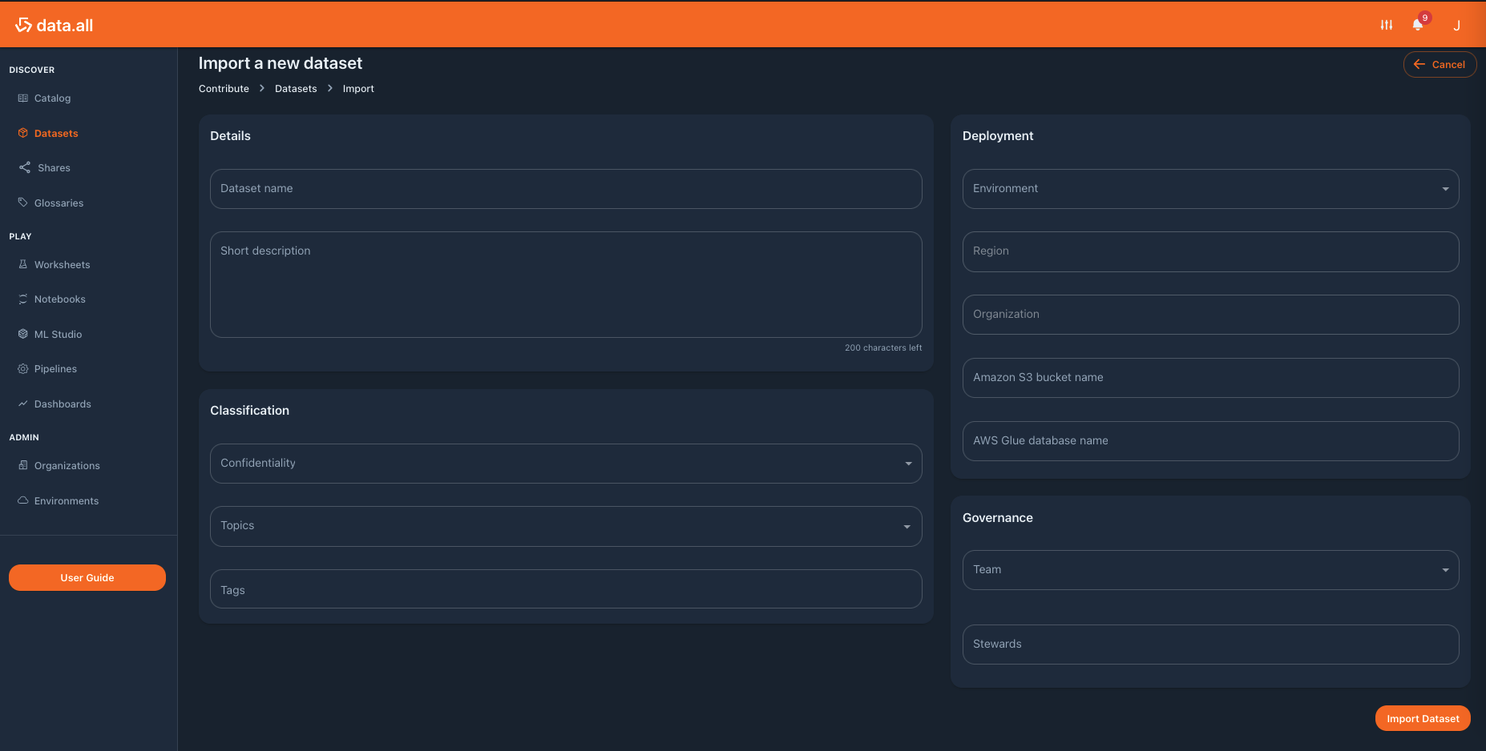
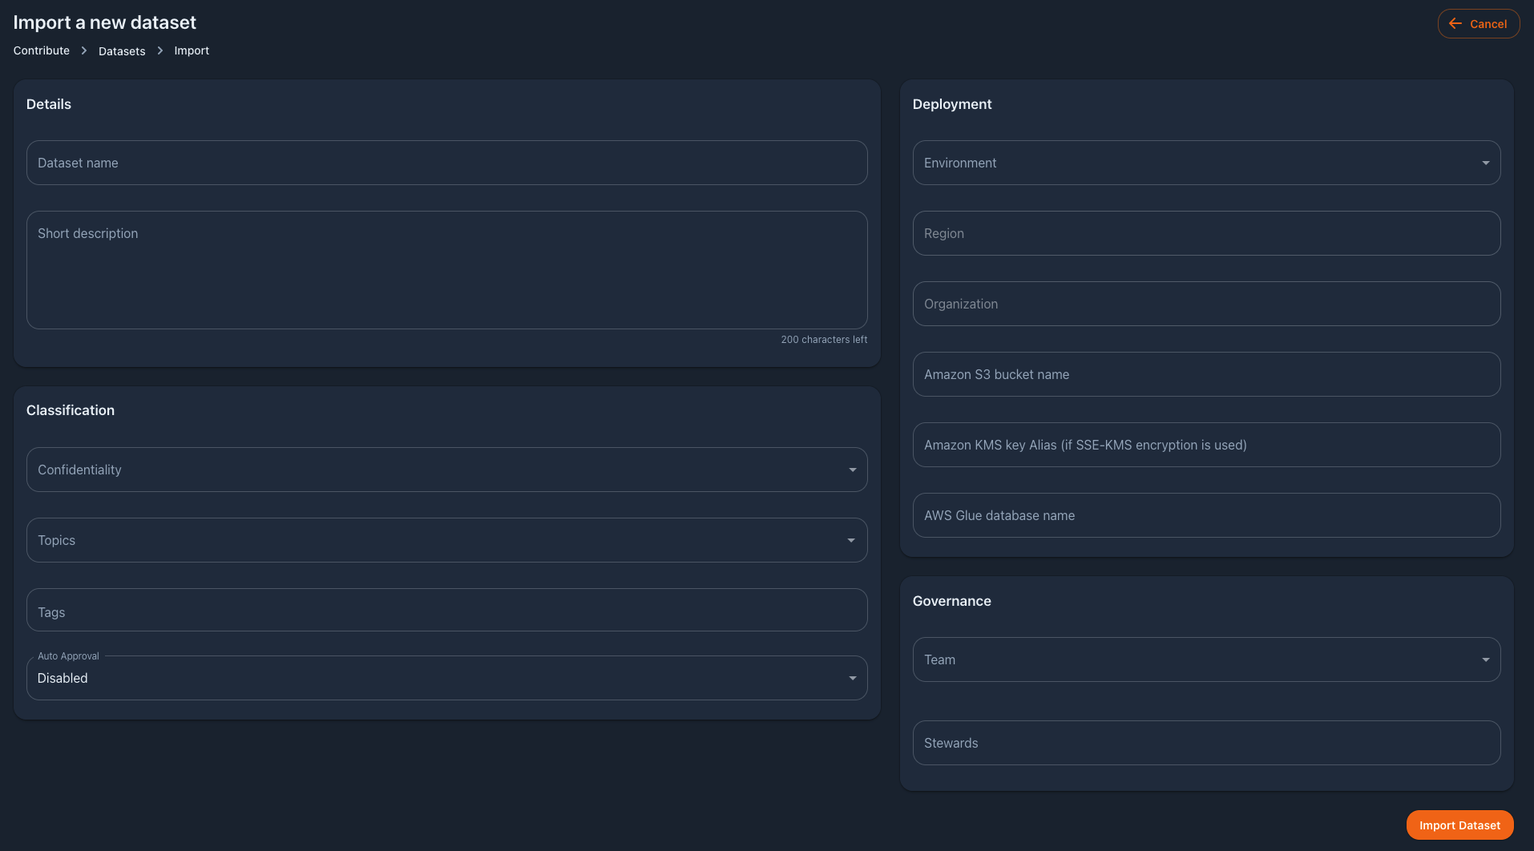
Update Userguide documentation for v2.3 updates

diff --git a/documentation/userguide/docs/environments.md b/documentation/userguide/docs/environments.md
@@ -7,7 +7,7 @@ users store data and work with data.**
 
 !!! danger "One AWS account, One environment"
     To ensure correct data access and AWS resources isolation, onboard one environment in each AWS account.
-    Despite being possible, **we strongly discourage users to use the same AWS account for multiple environments**.
+    **We strongly discourage users to use the same AWS account for multiple environments**.
 
 ## :material-hammer-screwdriver: **AWS account Pre-requisites**
 *data.all* does not create AWS accounts. You need to provide an AWS account and complete the following bootstraping
@@ -49,8 +49,7 @@ cdk bootstrap --trust DATA.ALL_AWS_ACCOUNT_NUMBER  -c @aws-cdk/core:newStyleStac
 In the above command we define the `--cloudformation-execution-policies` to use the AdministratorAccess policy `arn:aws:iam::aws:policy/AdministratorAccess`. 
 This is the default policy that CDK uses to deploy resources, nevertheless it is possible to restrict it to any IAM policy created in the account.
 
-In V1.6.0 a more restricted policy is provided and directly downloadable from the UI. This more restrictive policy can be optionally used as
-`--cloudformation-execution-policies` for the CDK Execution role.
+In V1.6.0 and later, a more restricted policy is provided and directly downloadable from the UI. This more restrictive policy can be optionally passed in to the parameter `--cloudformation-execution-policies` instead of `arn:aws:iam::aws:policy/AdministratorAccess` for the CDK Execution role.
 
 
 ### 2. (For manual) Pivot role
@@ -72,27 +71,13 @@ available in data.all UI to create the role named **dataallPivotRole**.
     If you have existing environments that were linked to data.all using a manually created Pivot Role you can
     still benefit from V1.5.0 `enable_pivot_role_auto_create` feature. You just need to update that parameter in
     the `cdk.json` configuration of your deployment. Once the CICD pipeline has completed: new linked environments 
-    will contain the nested cdk-pivotRole stack (no actions needed) and existing environments can be updated by: a) manually, 
-    by clicking on "update stack" in the environment>stack tab  b) automatically, wait for the `stack-updater` ECS task that 
-    runs daily overnight c) automatically, set the added `enable_update_dataall_stacks_in_cicd_pipeline` parameter to `true` in 
-    the `cdk.json` config file. The `stack-updater` ECS task will be triggered from the CICD pipeline
+    will contain the nested cdk-pivotRole stack (no actions needed) and existing environments can be updated by:
+      <br>a) manually, by clicking on "update stack" in the environment --> stack tab
+      <br>b) automatically, wait for the `stack-updater` ECS task that runs daily overnight 
+      <br>c) automatically, set the added `enable_update_dataall_stacks_in_cicd_pipeline` parameter to `true` in the `cdk.json` config file. The `stack-updater` ECS task will be triggered from the CICD pipeline
 
-### 3. (For new accounts) AWS Lake Formation Service role
-<span style="color:grey">*data.all*</span> relies on AWS Lake Formation to manage access to your structured data.
-If AWS Lake Formation has never been
-activated on your AWS account, you need to create
-a service-linked role, using the following command:
 
-```bash
-aws iam create-service-linked-role --aws-service-name lakeformation.amazonaws.com
-```
-
-!!! danger "Service link creation error"
-    If you receive: An error occurred (InvalidInput) when calling the CreateServiceLinkedRole operation: Service
-    role name AWSServiceRoleForLakeFormationDataAccess has been taken in this account, please try a different suffix.
-    <b>You can skip this step, as this indicates the Lake formation service-linked role exists.</b>
-
-### 4. (For Dashboards) Subscribe to Amazon Quicksight
+### 3. (For Dashboards) Subscribe to Amazon Quicksight
 
 This is an optional step. To link environments with <i><b>Dashboards enabled</b></i> , you will also need a running Amazon QuickSight subscription
 on the bootstraped account. If you have not subscribed to Quicksight before, go to your AWS account and choose the
@@ -103,26 +88,29 @@ Enterprise option as show below:
 ![quicksight](pictures/environments/boot_qs_2.png#zoom#shadow)
 
 
-### 5. (For ML Studio) Delete or adapt the default VPC
-If ML Studio is enabled, data.all checks if there is an existing SageMaker Studio domain. If there is an existing domain
-it will use it to create ML Studio profiles. If no pre-existing domain is found, data.all will create a new one.
+### 4. (For ML Studio) Specifying a VPC or using default
+If ML Studio is enabled, data.all will create a new SageMaker Studio domain in your AWS Account and use the domain later on to create ML Studio profiles.
 
 Prior to V1.5.0 data.all always used the default VPC to create a new SageMaker domain. The default VPC had then to be
 customized to fulfill the networking requirements specified in the Sagemaker
 [documentation](https://docs.aws.amazon.com/sagemaker/latest/dg/studio-notebooks-and-internet-access.html) for VPCOnly 
 domains.
 
-In V1.5.0 we introduce the creation of a suitable VPC for SageMaker as part of the environment stack. However, it is not possible to edit the VPC used by a SageMaker domain, it requires deletion and re-creation. To allow backwards
+In V1.5.0 we introduce the creation of a suitable VPC for SageMaker as part of the environment stack. However, it is not possible to edit the VPC used by a SageMaker Studio domain, it requires deletion and re-creation. To allow backwards
 compatibility and not delete the pre-existing domains, in V1.5.0 the default behavior is still to use the default VPC.
 
-Data.all will create a SageMaker VPC:
-- For new environments: (link environment)
-  - if there is not a pre-existing SageMaker Studio domain
-  - if there is not a default VPC in the account
-- For pre-existing environments: (update environment)
-  - if all ML Studio profiles have been deleted (from CloudFormation as well)
-  - if there is not a pre-existing SageMaker Studio domain
-  - if the default VPC has been deleted in the account
+In V2.2.0, we introduced the ability to select your own VPC ID and Subnet IDs to deploy the VPC-Only Sagemaker Studio domain to.
+
+Data.all will follow the following rules to establish which VPC to use for Sagemaker Studio domain creation:
+
+- If MLStudio enabled with VPC and subnet IDs specified
+  - Use the specified VPC and subnet IDs
+- If MLStudio enabled with no VPC/subnet IDs specified 
+  - default VPC exists -->  Uses default VPC and all subnets available
+  - default VPC does not exist --> Creates a new VPC and uses with private subnets
+
+Pre-existing environments from older versions of data.all will have their Sagemaker Studio domain remain unchanged if already enabled. Users can get a better understanding of what VPC configuration is being used by navigating to the environment --> MLStudio Tab in the data.all UI once the environment stack is created.
+
 
 ## :material-new-box: **Link an environment**
 ### Necessary permissions
@@ -162,20 +150,19 @@ Navigate to your organization, click on the **Link Environment** button, and fil
 | Short description | Short description about the environment                                                                                                   | No       | Yes      |Finance department teams
 | Account number    | AWS bootstraped account maped to the environment                                                                                          | Yes      | No       |111111111111
 | Region            | AWS region                                                                                                                                | Yes      | No       |Europe (Ireland)
-| IAM Role name     | Alternative name of the environment IAM role                                                                                              | No       | No       |anotherRoleName
+| IAM Role ARN     | Alternative name of the environment IAM role                                                                                              | No       | No       |anotherRoleName
 | Resources prefix  | Prefix for all AWS resources created in this environment. Only (^[a-z-]*$)                                                                | Yes      | Yes      |fin
 | Team              | Name of the group initially assigned to this environment                                                                                  | Yes      | No       |FinancesAdmin
 | Tags              | Tags that can later be used in the Catalog                                                                                                | Yes      | Yes      |finance, test
-| VPC Identifier    | VPC provided to host the environment resources instead than the default one created by <span style="color:grey">*data.all*</span>         | No       |   No       | vpc-......
-| Public subnets    | Public subnets provided to host the environment resources instead than the default created by <span style="color:grey">*data.all*</span>  | No       |  No        | subnet-....
-| Private subnets   | Private subnets provided to host the environment resources instead than the default created by <span style="color:grey">*data.all*</span> | No       |   No       | subnet-.....
+| ML Studio VPC ID    | VPC to host the environment sagemaker studio domain (if mlstudio is enabled) instead than the default VPC or the VPC created by <span style="color:grey">*data.all*</span>         | No       |   No       | vpc-......
+| ML Studio Subnet ID(s)   | Subnet(s) to host the environment sagemaker studio domain (if mlstudio is enabled) instead than the default subnets or the subnets created by <span style="color:grey">*data.all*</span>  | No       |  No        | subnet-....
 
 
 **Features Management**
 
 An environment is defined as a workspace and in this workspace we can flexibly activate or deactivate different
 features, adapting the workspace to the teams' needs. If you want to use Dashboards, you need to complete the optional
-fourth step explained in the previous chapter "Bootstrap your AWS account".
+third step explained in the previous chapter "Bootstrap your AWS account".
 
 !!! success "This is not set in stone!"
     Don't worry if you change your mind, features are editable. You can always update
@@ -192,6 +179,7 @@ the environment organization. There are several tabs just below the environment 
 - Overview: summary of environment information and AWS console and credential access.
 - Teams: list of all teams onboarded to this environment.
 - Datasets: list of all datasets owned and shared with for this environment
+- MLStudio: summary of Sagemaker Studio domain configuration (if enabled)
 - Networks: VPCs created and owned by the environment
 - Subscriptions: SNS topic subscriptions enabled or disabled in the environment
 - Tags: editable key-value tags
@@ -238,11 +226,11 @@ Note that we can keep the environment CloudFormation stack. What is this for? Th
 using the environment resources (IAM roles, etc) created by <span style="color:grey">*data.all*</span> but outside of <span style="color:grey">*data.all*</span>
 
 ### :material-plus-network-outline: **Create networks**
-Networks are VPCs created from <span style="color:grey">*data.all*</span> and belonging to an environment and team. To create a network, click in the
+Networks are pre-existing VPCs that are onboarded to <span style="color:grey">*data.all*</span> and belonging to an environment and team. To create a network, click in the
 **Networks** tab in the environment window, then click on **Add** and finally fill the following form.
 
-!!!abstract "I need an example!"
-    What is the advantage of using networks from <span style="color:grey">*data.all*</span>? ....[MISSING INFO]
+!!!abstract "Using Networks"
+    After onboarding your network(s) in <span style="color:grey">*data.all*</span>, users can easily select the VPC and Subnet information of that network to seamlessly deploy new resources in data.all that require VPC configurations, such as data.all Notebooks. For example, if a User wants to create a notebook in their environment after onboarding a network, the VPC and Subnet ID fields in the create notebook form on data.all will auto-populate with the VPC and subnet information for the user to easily to select (rather than navigating to and from the AWS Console)!
 
 
 ![](pictures/environments/env_networks.png#zoom#shadow)
@@ -303,7 +291,8 @@ creator of the environment or invited to the environment). In the following pict
 For the environment admin team and for each team invited to the environment <span style="color:grey">*data.all*</span> 
 creates an IAM role. From the **Teams** tab of
 the environment we can assume our team's IAM role to get access to the AWS Console or copy the credentials to the
-clipboard. Both options are under the "Actions" column in the Teams table.
+clipboard. Both options are under the "Actions" column in the Teams table (these options are only available if `core.features.env_aws_actions` is set to `True` in the `config.json` used for deployment of data.all).
+
 
 
 ![](pictures/environments/env_teams_3.png#zoom#shadow)
@@ -376,10 +365,13 @@ Any IAM role that exists in the Environment AWS Account can be added to <span st
 
 ![](pictures/environments/env_consumption_roles_1.png#zoom#shadow)
 
-A window like the following will appear for you to introduce the arn of the IAM role and the Team that owns the consumption role.
-Only members of this team and tenants of <span style="color:grey">*data.all*</span> can remove the consumption role.
+A window like the following will appear for you to introduce a name for the consumption role in data.all, the arn of the IAM role, the Team that owns the consumption role and whether data.all should manage the consumption role. Enabling "data.all managed" on the consumption role allows data.all to attach IAM policies to the role used for data.all related activities, such as sharing data, rather than having a user manually add those policies to the role.
+
+Only members of this team and tenants of <span style="color:grey">*data.all*</span> can edit or remove the consumption role.
 
 ![](pictures/environments/env_consumption_roles_2.png#zoom#shadow)
+
+![](pictures/environments/env_consumption_roles_3.png#zoom#shadow)
 
 !!! success "Existing roles only"
     <span style="color:grey">*data.all*</span> checks whether that IAM role exists in the AWS account of the environment before adding it as a consumption role.
@@ -387,5 +379,5 @@ Only members of this team and tenants of <span style="color:grey">*data.all*</sp
 **Data Access**
 
 - By default, a new consumption role does NOT have access to any data in <span style="color:grey">*data.all*</span>.
-- The team that owns the consumption role needs to open a share request for the consumption role as shown in the picture below.
+- The team that owns the consumption role needs to open a share request for the consumption role as discussed more in the Discover --> Shares section.
 

diff --git a/documentation/userguide/docs/datasets.md b/documentation/userguide/docs/datasets.md
@@ -91,7 +91,7 @@ On left pane choose **Datasets**, then click on the **Create** button. Fill the 
 | Confidentiality  | Level of confidentiality: Unclassified, Oficial or Secret | Yes             | Yes      | Secret
 | Topics           | Topics that can later be used in the Catalog              | Yes, at least 1 | Yes       | Finance
 | Tags             | Tags that can later be used in the Catalog                | Yes, at least 1 | Yes      | deleteme, ds
-
+| Auto Approval             | Whether shares for this dataset need approval from dataset owners/stewards              | Yes (default `Disabled`) | Yes      | Disabled, Enabled
 
 ## :material-import: **Import a dataset**
 
@@ -99,7 +99,7 @@ On left pane choose **Datasets**, then click on the **Create** button. Fill the 
 If you already have data stored on Amazon S3 buckets in your data.all environment, data.all got you covered with the import feature. In addition to
 the fields of a newly created dataset you have to specify the S3 bucket and optionally a Glue database and a KMS key Alias. If the Glue database
 is left empty, data.all will create a Glue database pointing at the S3 Bucket. As for the KMS key Alias, data.all assumes that if nothing is specified
-the S3 Bucket is encrypted with SSE-S3 encryption.
+the S3 Bucket is encrypted with SSE-S3 encryption. Data.all performs a validation check to ensure the KMS Key Alias provided (if any) is the one that encrypts the S3 Bucket specified.
 
 !!! danger "Imported KMS key and S3 Bucket policies requirements"
     Data.all pivot role will handle data sharing on the imported Bucket and KMS key (if imported). Make sure that
@@ -107,8 +107,7 @@ the S3 Bucket is encrypted with SSE-S3 encryption.
 
 
 ### KMS key policy
-In the KMS key policy we need to grant explicit permission to the pivot role. Note that this block is needed even if
-permissions for the principal `"AWS": "arn:aws:iam::111122223333:root"` are given.
+In the KMS key policy we need to grant explicit permission to the pivot role. At a minimum the following permissions are needed for the pivotRole:
 
 ```
 {
@@ -126,22 +125,12 @@ permissions for the principal `"AWS": "arn:aws:iam::111122223333:root"` are give
     "kms:ReEncrypt*",
     "kms:TagResource",
     "kms:UntagResource"
+    'kms:DescribeKey'
    ],
   "Resource": "*"
 }
 
 ```
-
-
-
-
-
-
-| Field                  | Description                                                                                     | Required | Editable |Example
-|------------------------|-------------------------------------------------------------------------------------------------|----------|----------|-------------
-| Amazon S3 bucket name  | Name of the S3 bucket you want to import                                                        | Yes      | No    |DOC-EXAMPLE-BUCKET
-| Amazon KMS key Alias   | Alias of the KMS key used to encrypt the S3 Bucket (do not include alias/<ALIAS>, just <ALIAS>) | Yes      | No    |somealias
-| AWS Glue database name | Name of the Glue database tht you want to import                                                | No       | No      |anyDatabase
 
 !!!success "Update imported Datasets"
     Imported keys is an addition of V1.6.0 release. Any previously imported bucket will have a KMS Key Alias set to `Undefined`.
@@ -149,6 +138,13 @@ permissions for the principal `"AWS": "arn:aws:iam::111122223333:root"` are give
     **Edit** window.
 
 ![import_dataset](pictures/datasets/import_dataset.png#zoom#shadow)
+
+| Field                  | Description                                                                                     | Required | Editable |Example
+|------------------------|-------------------------------------------------------------------------------------------------|----------|----------|-------------
+| Amazon S3 bucket name  | Name of the S3 bucket you want to import                                                        | Yes      | No    |DOC-EXAMPLE-BUCKET
+| Amazon KMS key Alias   | Alias of the KMS key used to encrypt the S3 Bucket (do not include alias/<ALIAS>, just <ALIAS>) | No       | No    |somealias
+| AWS Glue database name | Name of the Glue database tht you want to import                                                | No       | No      |anyDatabase
+
 
 ## :material-card-search-outline: **Navigate dataset tabs**
 
@@ -182,7 +178,7 @@ Moreover, AWS information related to the resources created by the dataset CloudF
 AWS Account, Dataset S3 bucket, Glue database, IAM role and KMS Alias.
 
 You can also assume this IAM role to access the S3 bucket in the AWS console by clicking on the **S3 bucket** button.
-Alternatively, click on **AWS Credentials** to obtain programmatic access to the S3 bucket.
+Alternatively, click on **AWS Credentials** to obtain programmatic access to the S3 bucket (only available if `modules.dataset.features.aws_actions` is set to `True` in the `config.json` used for deployment of data.all).
 
 ![overview](pictures/datasets/dataset_overview.png#zoom#shadow)
 
@@ -241,11 +237,6 @@ Catalog and then click on Synchronize as we did in step 3.
 - Also, you can deploy Glue resources using <a href="https://docs.aws.amazon.com/glue/latest/dg/populate-with-cloudformation-templates.html">CloudFormation</a>
 - Or directly, <a href="https://github.com/aws-samples/aws-glue-samples/tree/master/utilities/Hive_metastore_migration">migrating from Hive Metastore.</a>
 - there are more for sure :)
-
-!!! abstract "Use data.all pipelines to register Glue tables"
-    data.all pipelines can be used to transform your data including the creation of Glue tables using
-    <a href="https://docs.aws.amazon.com/glue/latest/dg/aws-glue-api-crawler-pyspark-extensions-dynamic-frame.html#aws-glue-api-crawler-pyspark-extensions-dynamic-frame-write"> AWS Glue pyspark extension </a>.
-    Visit the <a href="pipelines.html">pipelines section</a> for more details.
 
 
 ### Folders

diff --git a/documentation/userguide/docs/shares.md b/documentation/userguide/docs/shares.md
@@ -11,10 +11,12 @@ to create access permissions to tables, meaning that no data is copied between  
 Under-the-hood, folders are prefixes inside the dataset S3 bucket. To create sharing of folders in data.all,
 we create an S3 access point per requester group to handle its access to specific prefixes in the dataset.
 
+data.all also supports the sharing of the entire S3 Bucket to requestors using IAM permissions and S3/KMS policies if desired.
+
 **Concepts**
 
 - Share request or Share Object: one for each dataset and requester team.
-- Share Item refers to the individual tables and folders that are added to the Share request.
+- Share Item refers to the individual tables and folders or S3 Bucket that are added to the Share request.
 
 **Sharing workflow**
 
@@ -54,7 +56,9 @@ The following window will open. Choose your target environment and team and opti
 
 ![share_request_form](pictures/shares/shares_2_1.png#zoom#shadow)
 
-If instead of to a team, you want to request access for a Consumption role, add it to the request as in the picture below.
+If instead of to a team, you want to request access for a Consumption role, add it to the request as in the picture below. 
+
+<b><i>NOTE: </i></b> If the consumption role selected is not data.all managed - you will have the option to allow data.all to attach the share policies to the consumption role for this particular share object (if not enabled here you will have to manually attach the share policies to be given access to data).
 
 ![share_request_form](pictures/shares/shares_2_2.png#zoom#shadow)
 
@@ -122,6 +126,28 @@ regards to the dataset is `SHARED`.
 
 ![accept_share](pictures/shares/shares_dataset.png#zoom#shadow)
 
+## **Verify (and Re-apply) Items**
+
+As of V2.3 of data.all - share requestors or approvers are able to verify the health status of the share items within their share request from the data.all UI. Any set of share items that are in a shared state (i.e. `SHARE_SUCCEEDED` or `REVOKE_FAILED` state) will be able to be selected to start a verify share process.
+
+![share_verify](pictures/shares/share_verify.png#zoom#shadow)
+
+Upon completion of the verify share process, each share item's healthStatus will be updated with an updated healthStatus (i.e. `Healthy` or `Unhealthy`) as well as a timestamp representing the last verification time. If the share item is in an `Unhealthy` health status, there will also be included a health message detailing what part of the share is in an unhealthy state.
+
+In addition to running a verify share process on particular items, dataset owners can run the verify share process on multiple share objects associated with a particular dataset. Navigating to the Dataset --> Shares Tab, dataset owners can start a verify process on multiple share objects. For each share object selected, the share items that are in a shared state for the associated share object will verified and updated with a new health status and so on.
+
+![share_verify](pictures/shares/share_verify_dataset.png#zoom#shadow)
+
+!!! success "Scheduled Share Verify Task"
+    The share verifier process is run against all share object items that are in a shared state every 7 days by default
+    as a scheduled task which runs in the background of data.all.
+
+If any share items do end up in an `Unhealthy` status, the data.all approver will have the option to re-apply the share for the selected items that are in an unhealthy state.
+
+![share_reapply](pictures/shares/share_reapply.png#zoom#shadow)
+
+Upon successful re-apply process, the share items health status will revert back to a `Healthy` status with an updated timestamp.
+
 ## **Revoke Items**
 Both approvers and requesters can click on the button **Revoke items** to remove the share grant from chosen items.
 
@@ -155,6 +181,13 @@ the IAM role of the requester (same as with tables) and executing get calls to t
 For example:
 ```json
  aws s3 ls arn:aws:s3:<SOURCE_REGION>:<SOURCE_AWSACCOUNTID>:accesspoint/<DATASETURI>-<REQUESTER-TEAM>/folder2/
+```
+
+For S3 bucket sharing, IAM policies, S3 bucket policies, and KMS Key policies (if applicable) are updated to enable sharing of the S3 Bucket resource.
+
+For example, access to the bucket would be similar to:
+```json
+ aws s3 ls s3://<BUCKET_NAME>
 ```
 
 ## **Email Notification on share requests**

diff --git a/documentation/userguide/docs/notebooks.md b/documentation/userguide/docs/notebooks.md
@@ -28,7 +28,7 @@ To create a Notebook, go to Notebooks on the left pane and click on the **Create
 | Organization (auto-filled) | Organization of the environment                | Yes      | No       | AnyCompany EMEA
 | Team                       | Team that owns the notebook                    | Yes      | No       |DataScienceTeam
 | VPC Identifier    | VPC provided to host the notebook              | No       | No       | vpc-......
-| Public subnets    | Public subnets provided to host the notebook   | No       | No       | subnet-....
+| Subnets    | Subnets provided to host the notebook   | No       | No       | subnet-....
 | Instance type              | [ml.t3.medium,  ml.t3.large,     ml.m5.xlarge] | Yes      | No       |ml.t3.medium
 | Volume size                | [32, 64, 128, 256]                             | Yes      | No       |32
 
